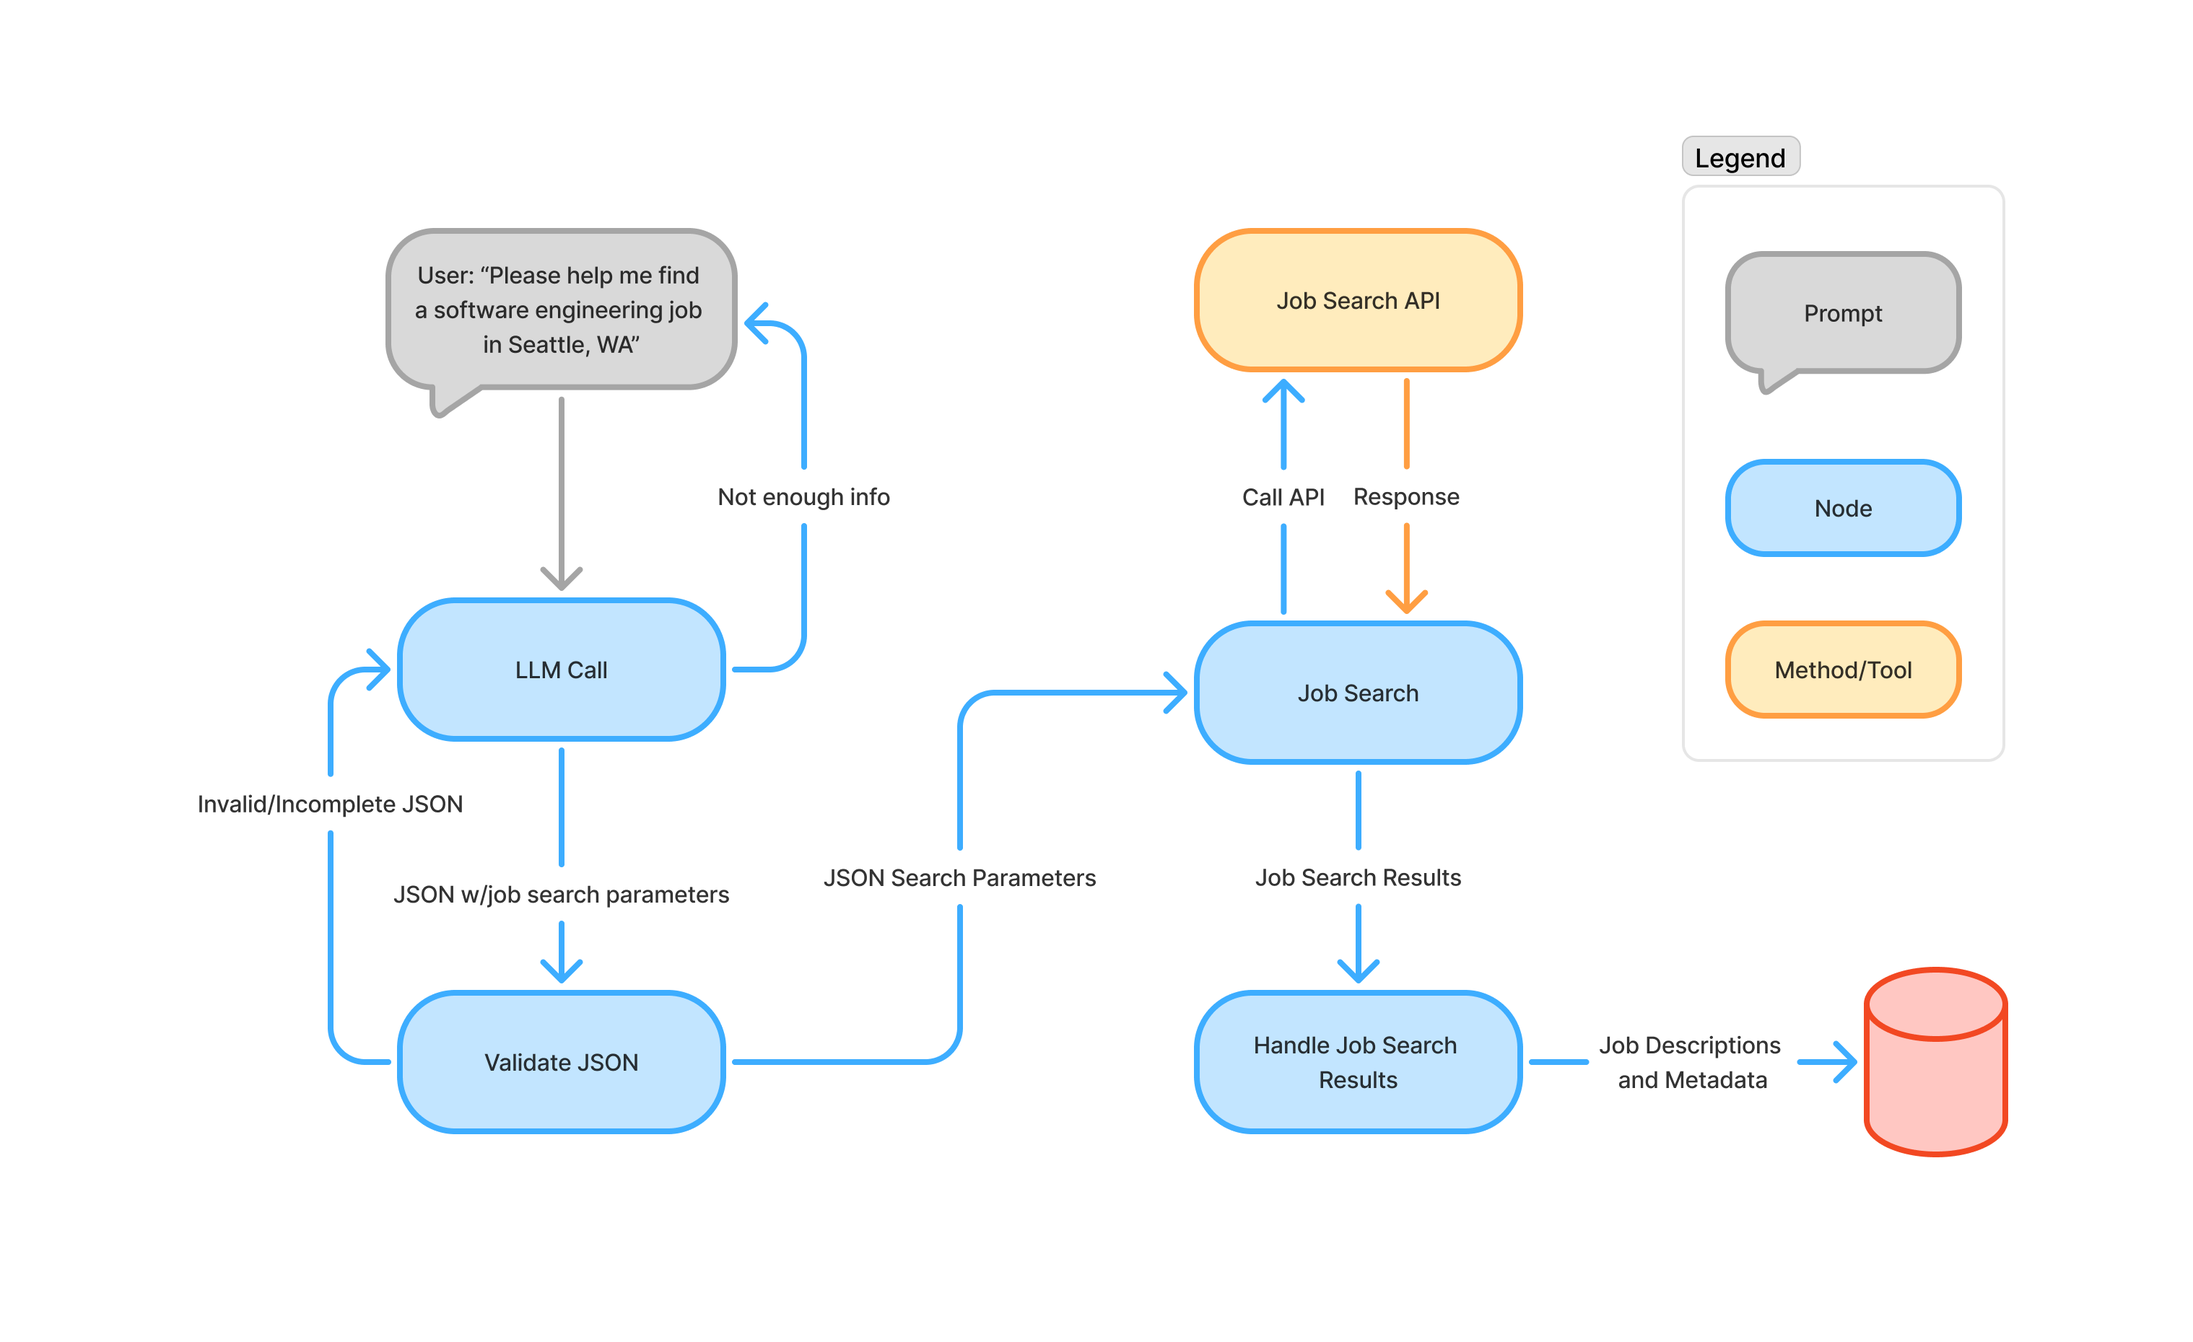
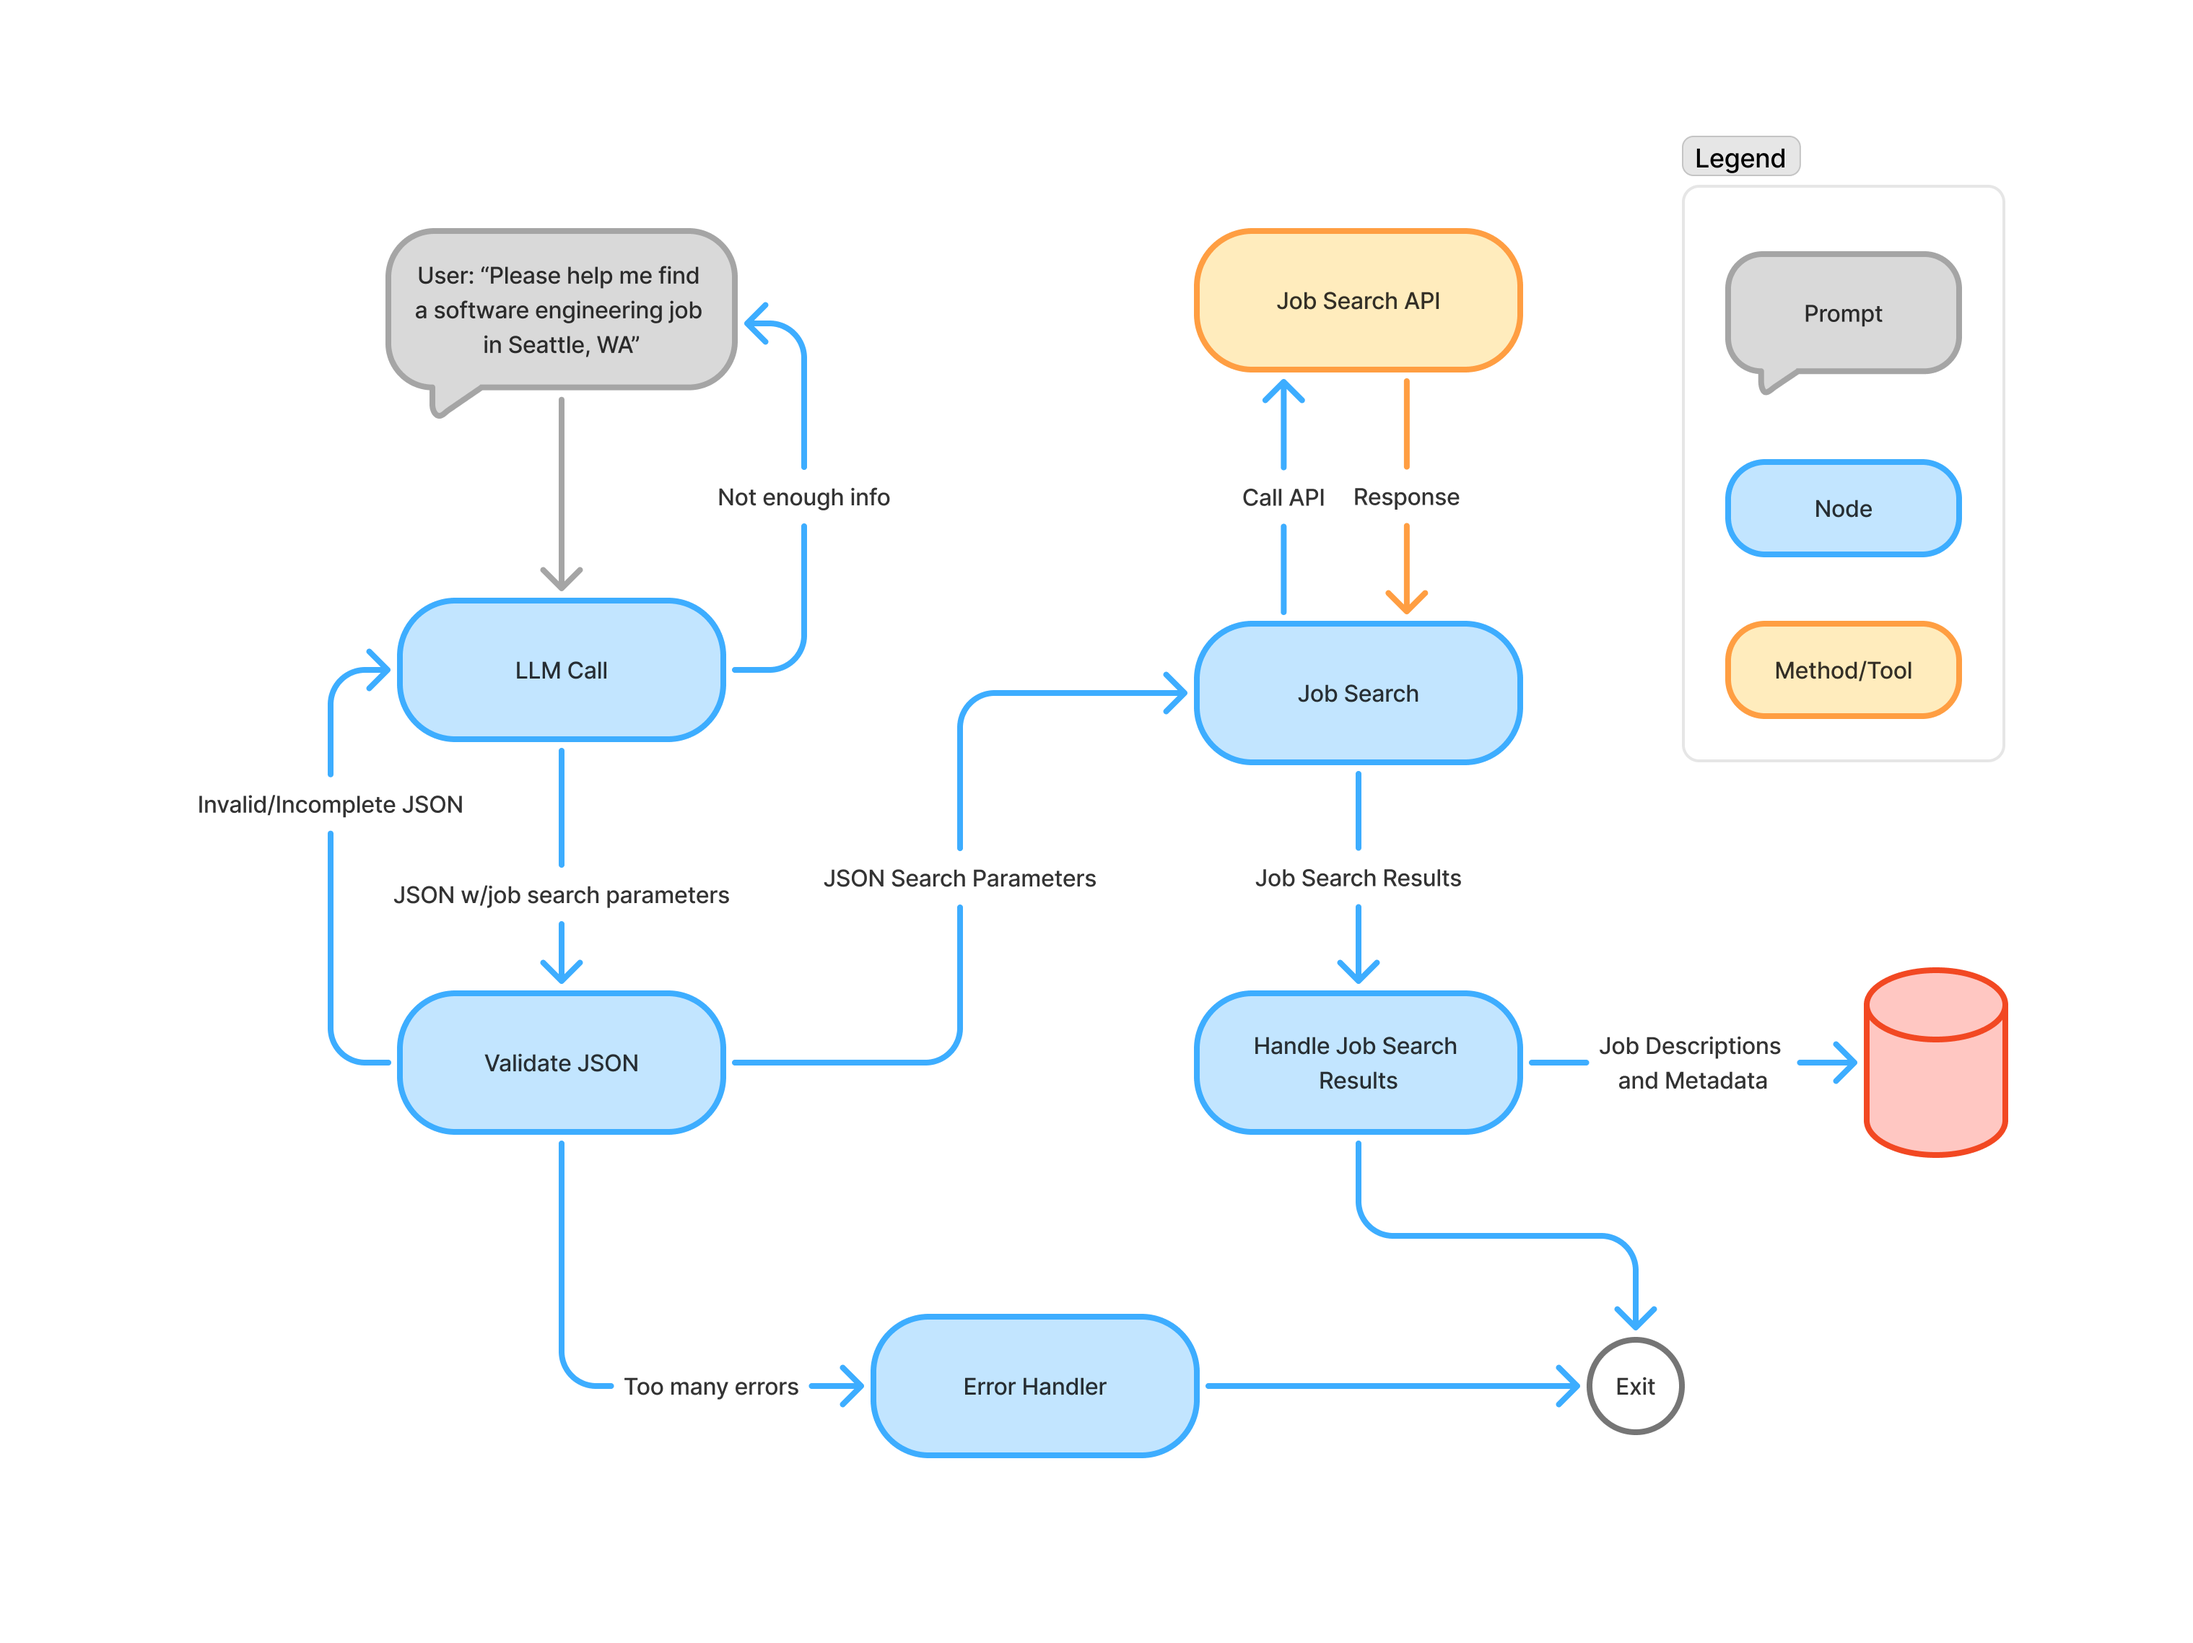
Enhance job search workflow: add error handling for invalid JSON responses and implement retry logic

diff --git a/tests/test_job_search_workflow.py b/tests/test_job_search_workflow.py
@@ -6,18 +6,21 @@ import asyncio
 import json
 from types import SimpleNamespace
 
-from langchain.messages import AIMessage
+from langchain.messages import AIMessage, HumanMessage
 import pytest
 
 from agent.workflows.job_search.nodes import (
     _job_file_identifier,
     _validate_llm_json,
+    error_handler_node,
     handle_job_search_results_node,
+    llm_returned_invalid_json_node,
     run_job_search_query_node,
     validate_llm_response_node,
 )
 from agent.workflows.job_search.validation import ValidationResult
 from agent.workflows.job_search.workflow import (
+    NUM_VALIDATION_RETRIES,
     validate_llm_response_edge,
 )
 from models.job import JobDataLakeJob, JobDataLakeResponse
@@ -84,6 +87,64 @@ def test_validate_llm_response_edge_routes_valid_query_to_search() -> None:
     )
 
     assert next_node == "run_job_search_query"
+
+
+def test_invalid_json_node_records_error_and_increments_retry_count() -> None:
+    """An invalid response records its failure and prepares one model retry."""
+    update = llm_returned_invalid_json_node(
+        {
+            "messages": [],
+            "response_validation_retry_count": 1,
+        }
+    )
+
+    assert update["errors"] == ["Error: LLM returned invalid JSON"]
+    assert update["response_validation_retry_count"] == 2
+    assert update["messages"] == [
+        HumanMessage(content="The JSON you returned was invalid. Please try again.")
+    ]
+
+
+@pytest.mark.parametrize(
+    ("retry_count", "expected_node"),
+    [
+        (NUM_VALIDATION_RETRIES - 1, "llm_returned_invalid_json"),
+        (NUM_VALIDATION_RETRIES, "error_handler"),
+    ],
+)
+def test_invalid_json_routing_honors_retry_limit(
+    retry_count: int,
+    expected_node: str,
+) -> None:
+    """Invalid JSON retries below the limit and stops once it is reached."""
+    next_node = validate_llm_response_edge(
+        {
+            "messages": [],
+            "job_search_query": None,
+            "validation_result": ValidationResult.INVALID_JSON,
+            "response_validation_retry_count": retry_count,
+        }
+    )
+
+    assert next_node == expected_node
+
+
+def test_error_handler_reports_failure_to_user_and_log(
+    caplog: pytest.LogCaptureFixture,
+    capsys: pytest.CaptureFixture[str],
+) -> None:
+    """The terminal error node emits a generic user message and logs details."""
+    errors = [
+        "Error: LLM returned invalid JSON",
+        "Error: LLM returned invalid JSON",
+    ]
+
+    error_handler_node({"errors": errors})
+
+    assert capsys.readouterr().out == (
+        "AI: An error occurred during workflow execution. Please try again.\n"
+    )
+    assert "Error details: " + ",".join(errors) in caplog.text
 
 
 def test_run_job_search_query_node_converts_query_to_api_params() -> None:

diff --git a/agent/workflows/job_search/workflow.py b/agent/workflows/job_search/workflow.py
@@ -15,11 +15,13 @@ from agent.workflows.job_search.nodes import (
     validate_llm_response_node,
     run_job_search_query_node,
     handle_job_search_results_node,
+    error_handler_node,
 )
 from agent.workflows.job_search.state import JobSearchContext, JobSearchState
 from agent.workflows.job_search.validation import ValidationResult
 from api.job_data_lake import JobDataLakeClient
 
+NUM_VALIDATION_RETRIES = 2
 
 def build_job_search_workflow():
     """Build the job search workflow graph."""
@@ -31,6 +33,7 @@ def build_job_search_workflow():
     workflow.add_node("llm_returned_invalid_json", llm_returned_invalid_json_node)
     workflow.add_node("run_job_search_query", run_job_search_query_node)
     workflow.add_node("handle_job_search_results", handle_job_search_results_node)
+    workflow.add_node("error_handler", error_handler_node)
 
     workflow.add_edge(START, "prompt_user")
     workflow.add_edge("prompt_user", "llm_call")
@@ -39,6 +42,7 @@ def build_job_search_workflow():
     workflow.add_edge("llm_returned_invalid_json", "llm_call")
     workflow.add_edge("run_job_search_query", "handle_job_search_results")
     workflow.add_edge("handle_job_search_results", END)
+    workflow.add_edge("error_handler", END)
 
     return workflow.compile()
 
@@ -55,6 +59,8 @@ async def run_job_search_workflow(llm_client: LLMClient, job_client: JobDataLake
         validation_result=None, 
         job_search_results=None,
         job_search_succeeded=False,
+        errors=[],
+        response_validation_retry_count=0,
         )
 
     await app.ainvoke(input=state, context=JobSearchContext(llm_client=llm_client, job_client=job_client))
@@ -62,13 +68,16 @@ async def run_job_search_workflow(llm_client: LLMClient, job_client: JobDataLake
     return 1
 
 
-def validate_llm_response_edge(state: JobSearchState) -> Literal["llm_returned_invalid_json", "prompt_user", "run_job_search_query"]:
+def validate_llm_response_edge(state: JobSearchState) -> Literal["llm_returned_invalid_json", "prompt_user", "run_job_search_query", "error_handler"]:
     """Route the workflow based on the stored validation result."""
     json_validation_result = state["validation_result"]
 
     if json_validation_result == ValidationResult.INVALID_JSON:
         print("LLM returned invalid JSON.")
-        return "llm_returned_invalid_json"
+        if state["response_validation_retry_count"] >= NUM_VALIDATION_RETRIES:
+            return "error_handler"
+        else:
+            return "llm_returned_invalid_json"
     elif json_validation_result == ValidationResult.INCOMPLETE_QUERY:
         print("LLM indicated the query is not complete. Prompting user for more information.")
         return "prompt_user"

diff --git a/agent/workflows/job_search/nodes.py b/agent/workflows/job_search/nodes.py
@@ -48,9 +48,14 @@ def llm_call_node(state: JobSearchState, runtime: Runtime[JobSearchContext]) -> 
     return {"messages": [AIMessage(content=response)]}
 
 
-def llm_returned_invalid_json_node(state: JobSearchState) -> dict[str, list[HumanMessage]]:
+def llm_returned_invalid_json_node(state: JobSearchState) -> dict[str, Any]:
     """Append a retry instruction when the model response cannot be used."""
-    return {"messages": [HumanMessage(content="The JSON you returned was invalid. Please try again.")]}
+    retry_count = state["response_validation_retry_count"] + 1
+    return {
+        "errors": ["Error: LLM returned invalid JSON"],
+        "messages": [HumanMessage(content="The JSON you returned was invalid. Please try again.")],
+        "response_validation_retry_count": retry_count,
+    }
 
 
 def validate_llm_response_node(state: JobSearchState) -> dict[str, JobSearchQuery | ValidationResult | None]:
@@ -107,6 +112,14 @@ async def handle_job_search_results_node(state: JobSearchState) -> None:
         _write_job_record(job, record)
 
     print(f"AI: Saved {len(records)} job records to {JOB_DATA_DIRECTORY}.")
+    return None
+
+
+def error_handler_node(state: JobSearchState) -> None:
+    """Errors occurred during the workflow and user will need to try again."""
+    errors = state.get("errors", [])
+    print("AI: An error occurred during workflow execution. Please try again.")
+    logger.error("Error details: %s", ",".join(errors))
     return None
 
 

diff --git a/agent/workflows/job_search/state.py b/agent/workflows/job_search/state.py
@@ -29,3 +29,5 @@ class JobSearchState(TypedDict):
     validation_result: ValidationResult | None
     job_search_results: JobDataLakeResponse | None
     job_search_succeeded: bool 
+    errors: Annotated[list[str], operator.add]
+    response_validation_retry_count: int
